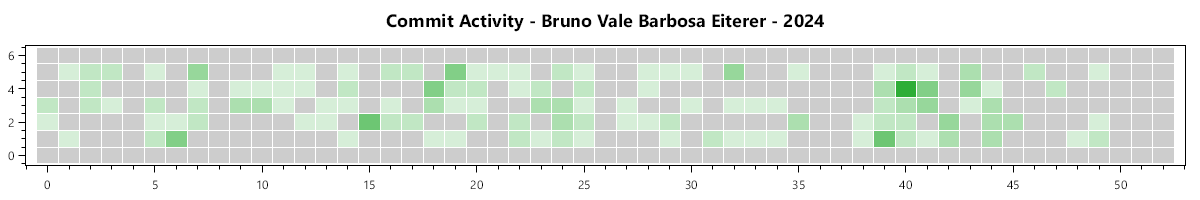
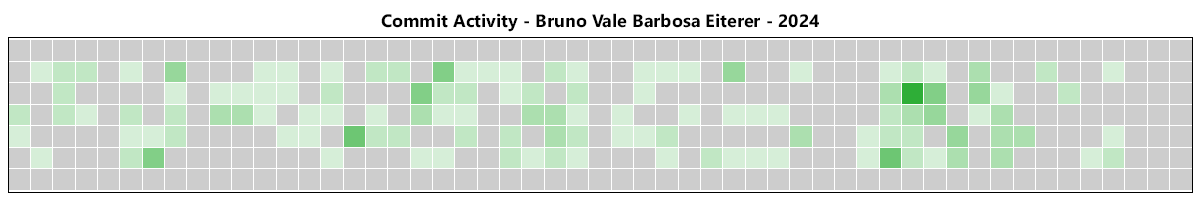
Hide all axis

diff --git a/Models/CommitData.cs b/Models/CommitData.cs
@@ -50,9 +50,13 @@ public class CommitData : SortedDictionary<DateTime, int>
 
         plotModel.Series.Add(heatMapSeries);
 
+        var xAxis = new LinearAxis
+        {
+            IsAxisVisible = false
+        };
+
         var yAxis = new CategoryAxis
         {
-            Position = AxisPosition.Left,
             IsAxisVisible = false
         };
 
@@ -79,6 +83,8 @@ public class CommitData : SortedDictionary<DateTime, int>
             IsAxisVisible = false
         };
 
+        plotModel.Axes.Add(xAxis);
+        plotModel.Axes.Add(yAxis);
         plotModel.Axes.Add(colorAxis);
 
         for (var week = 0; week < 53; week++)

diff --git a/Program.cs b/Program.cs
@@ -10,6 +10,9 @@ var commitData = commitDataDownloader.GetCommitData();
 File.WriteAllText("CommitData.json", commitData.ToJson());
 
 /* Get commit data from json file */
-// var commitData = CommitData.FromJson(File.ReadAllText(@"C:\Bruno\Code\BitbucketBitbucketCommitPlotter\CommitData.json"));
+/*
+var filePath = "";
+var commitData = CommitData.FromJson(File.ReadAllText(filePath));
+*/
 
 commitData.PlotCommitGraph(new DateTime(configuration.Year, 1, 1), new DateTime(configuration.Year, 12, 31), configuration.PlotCommiterName);
